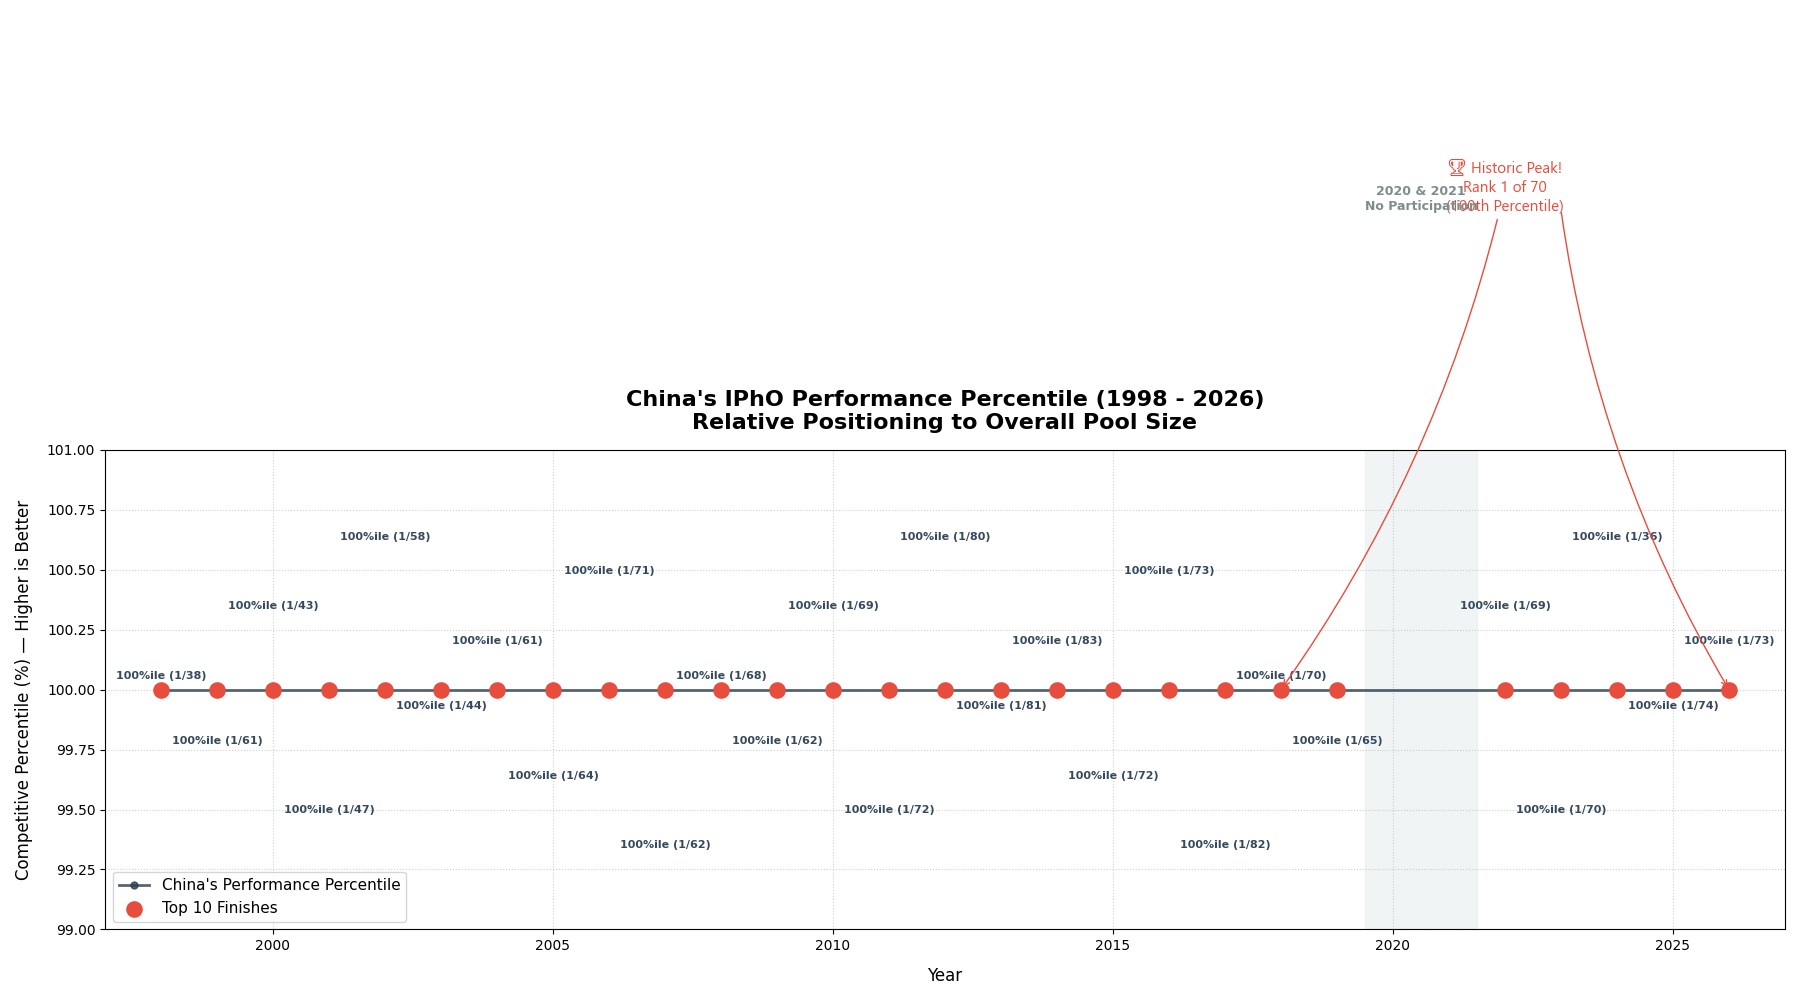
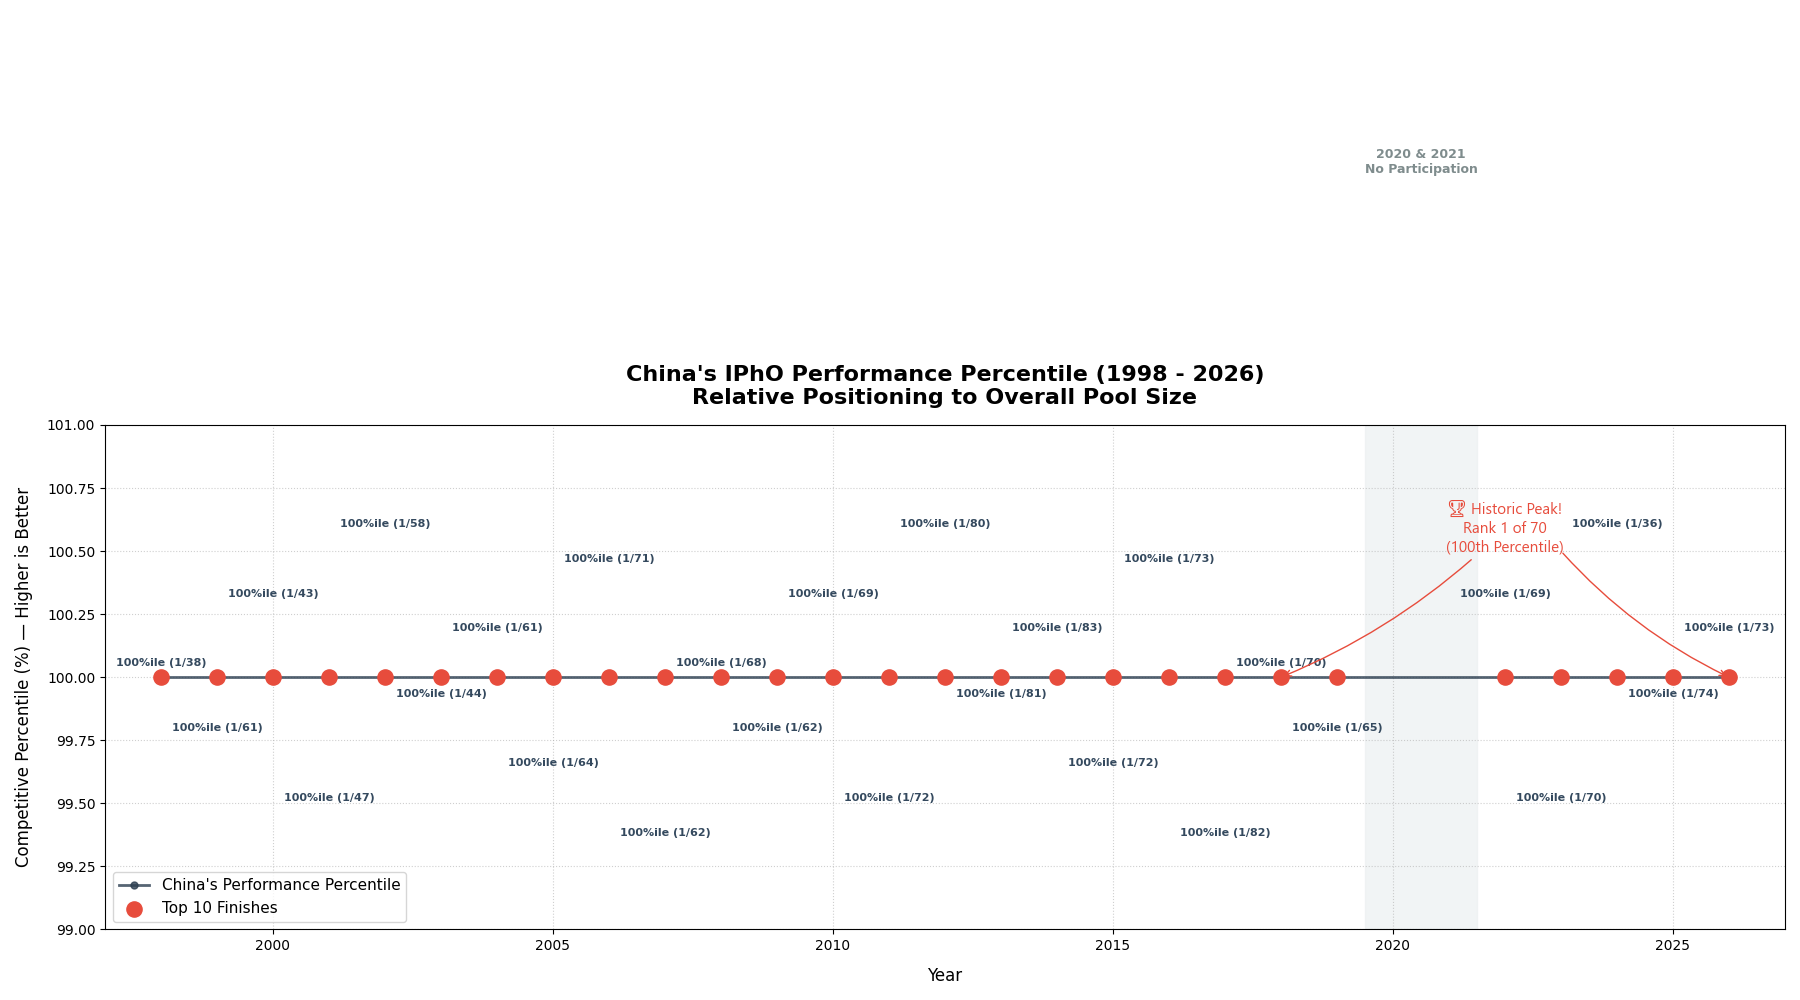
plots_fix

diff --git a/china_ibo_percentile.py b/china_ibo_percentile.py
@@ -100,7 +100,7 @@ best_2023 = df[df["Year"] == 2023].iloc[0]
 plt.annotate(
     f"🏆 Historic Peak!\nRank {int(best_2023['Rank'])} of {int(best_2023['Total_Countries'])}\n({best_2023['Percentile']:.1f}th Percentile)",
     xy=(2023, best_2023["Percentile"]),
-    xytext=(2018, best_2023["Percentile"] - 6),
+    xytext=(2018, best_2023["Percentile"] - 0.8),
     arrowprops=dict(
         facecolor="#e74c3c", arrowstyle="->", connectionstyle="arc3,rad=-0.1"
     ),

diff --git a/china_icho_percentile.py b/china_icho_percentile.py
@@ -100,7 +100,7 @@ best_2026 = df[df["Year"] == 2026].iloc[0]
 plt.annotate(
     f"🏆 Historic Peak!\nRank {int(best_2026['Rank'])} of {int(best_2026['Total_Countries'])}\n({best_2026['Percentile']:.0f}th Percentile)",
     xy=(2026, best_2026["Percentile"]),
-    xytext=(2021, best_2026["Percentile"] - 6),
+    xytext=(2021, best_2026["Percentile"] - 0.6),
     arrowprops=dict(
         facecolor="#e74c3c", arrowstyle="->", connectionstyle="arc3,rad=-0.1"
     ),

diff --git a/china_ipho_percentile.py b/china_ipho_percentile.py
@@ -103,7 +103,7 @@ best_2026 = df[df["Year"] == 2026].iloc[0]
 
 # 1. Anchor the text at a shared coordinate so both arrows originate from the exact same spot
 text_x = 2022
-text_y = best_2018["Percentile"] + 2
+text_y = best_2018["Percentile"] + 0.5
 
 # 2. Main Annotation (Contains the Text + Arrow pointing to 2018)
 plt.annotate(
